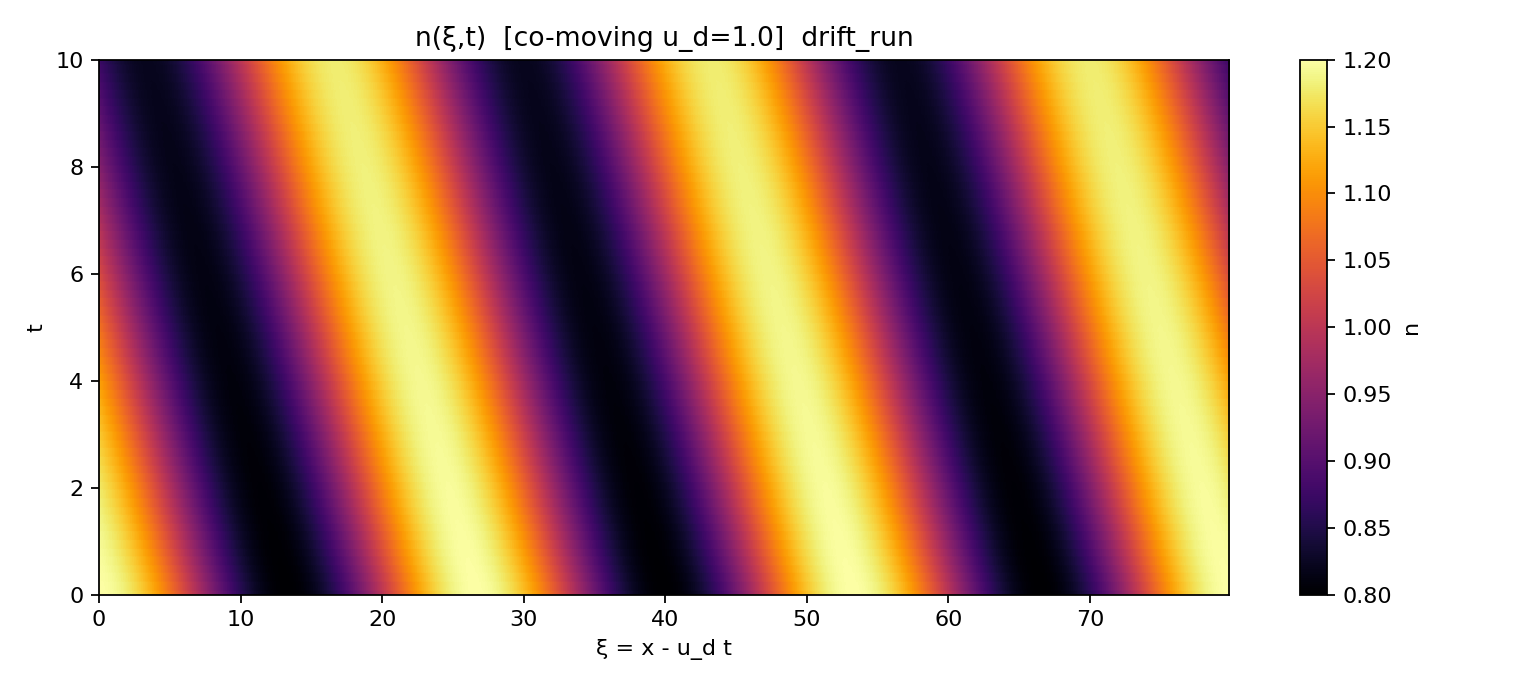
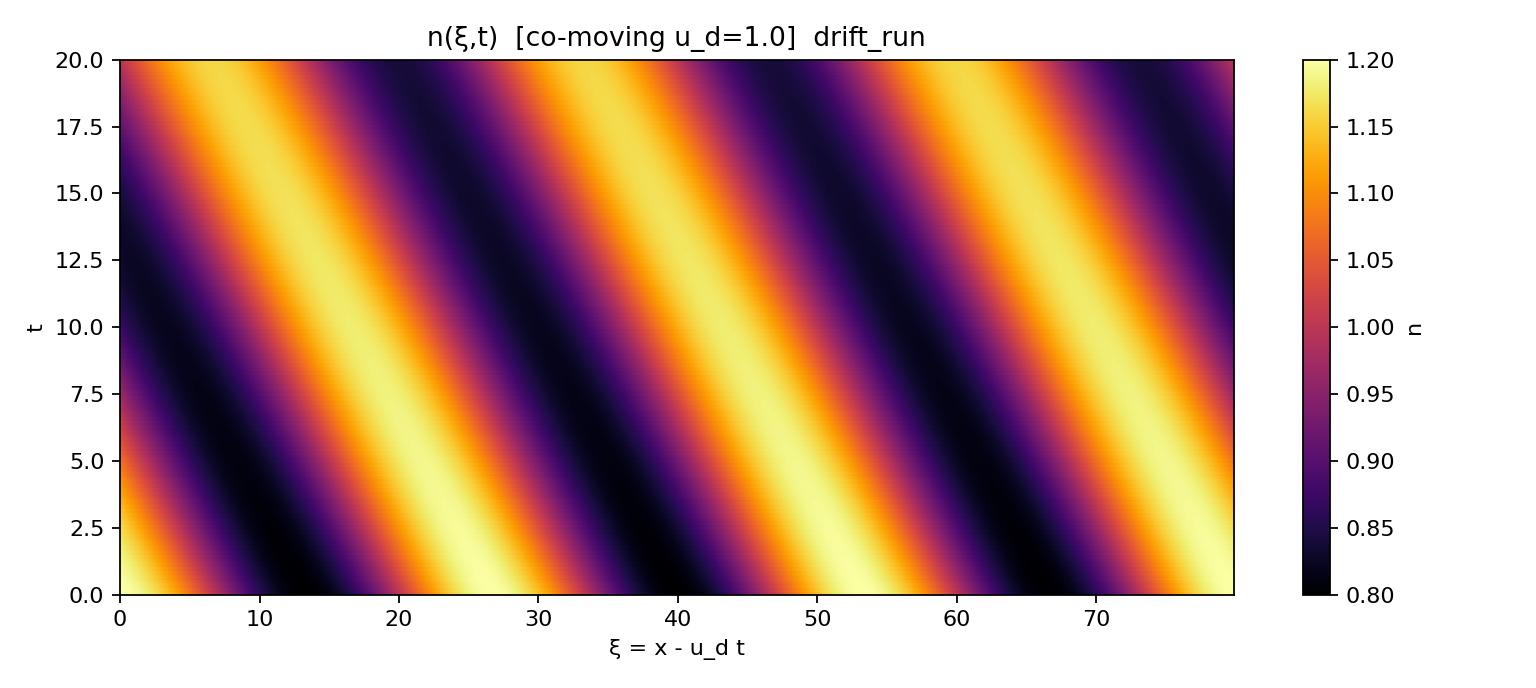
Update t_final parameter to 20.0 for extended simulation duration

diff --git a/mass injection/mass injection.py b/mass injection/mass injection.py
@@ -35,7 +35,7 @@ class P:
 
     L: float = 80.0
     Nx: int = 512
-    t_final: float = 10.0
+    t_final: float = 20.0
     n_save: int = 360
     # rtol: float = 5e-7
     # atol: float = 5e-9
